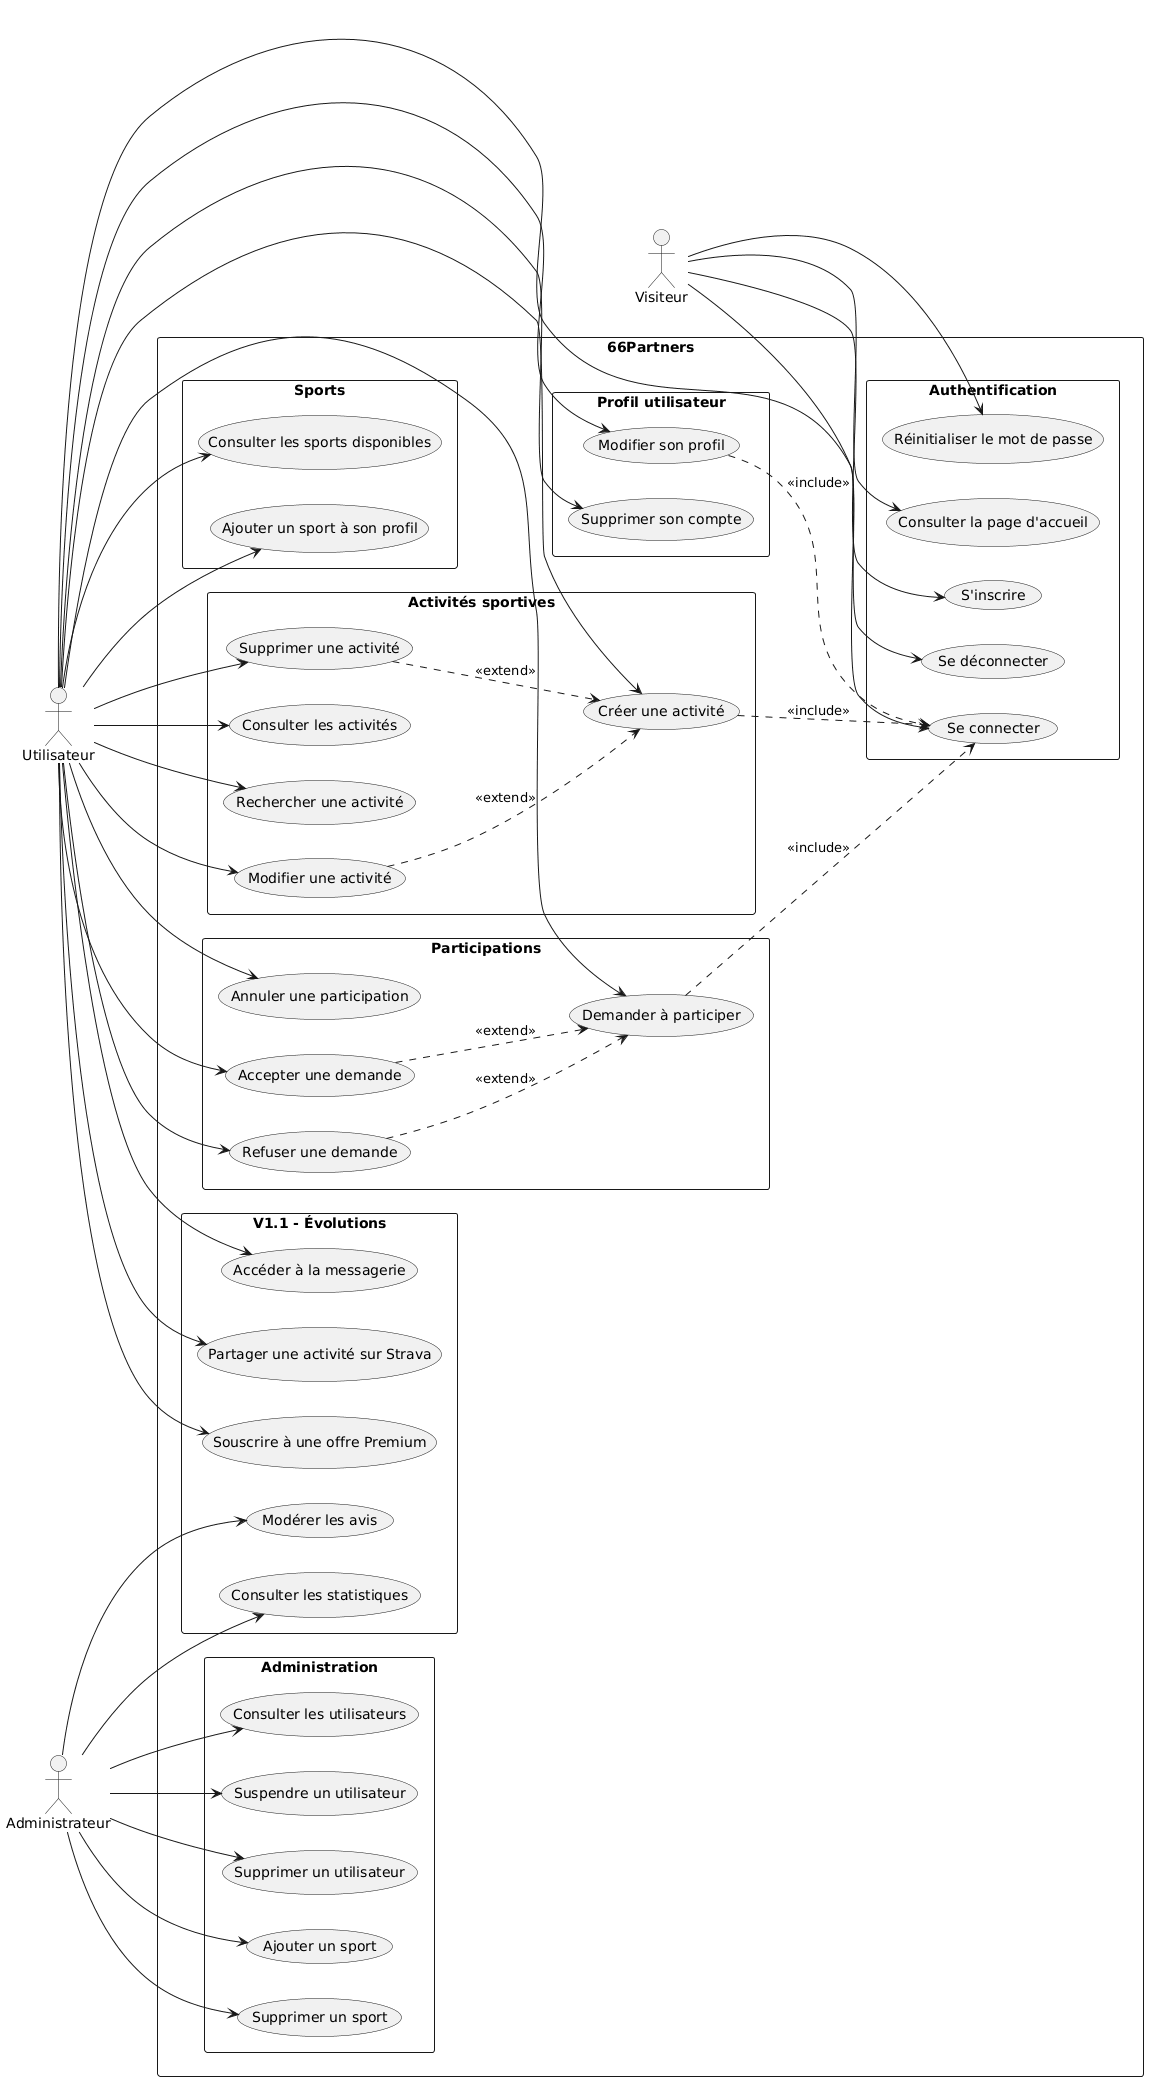
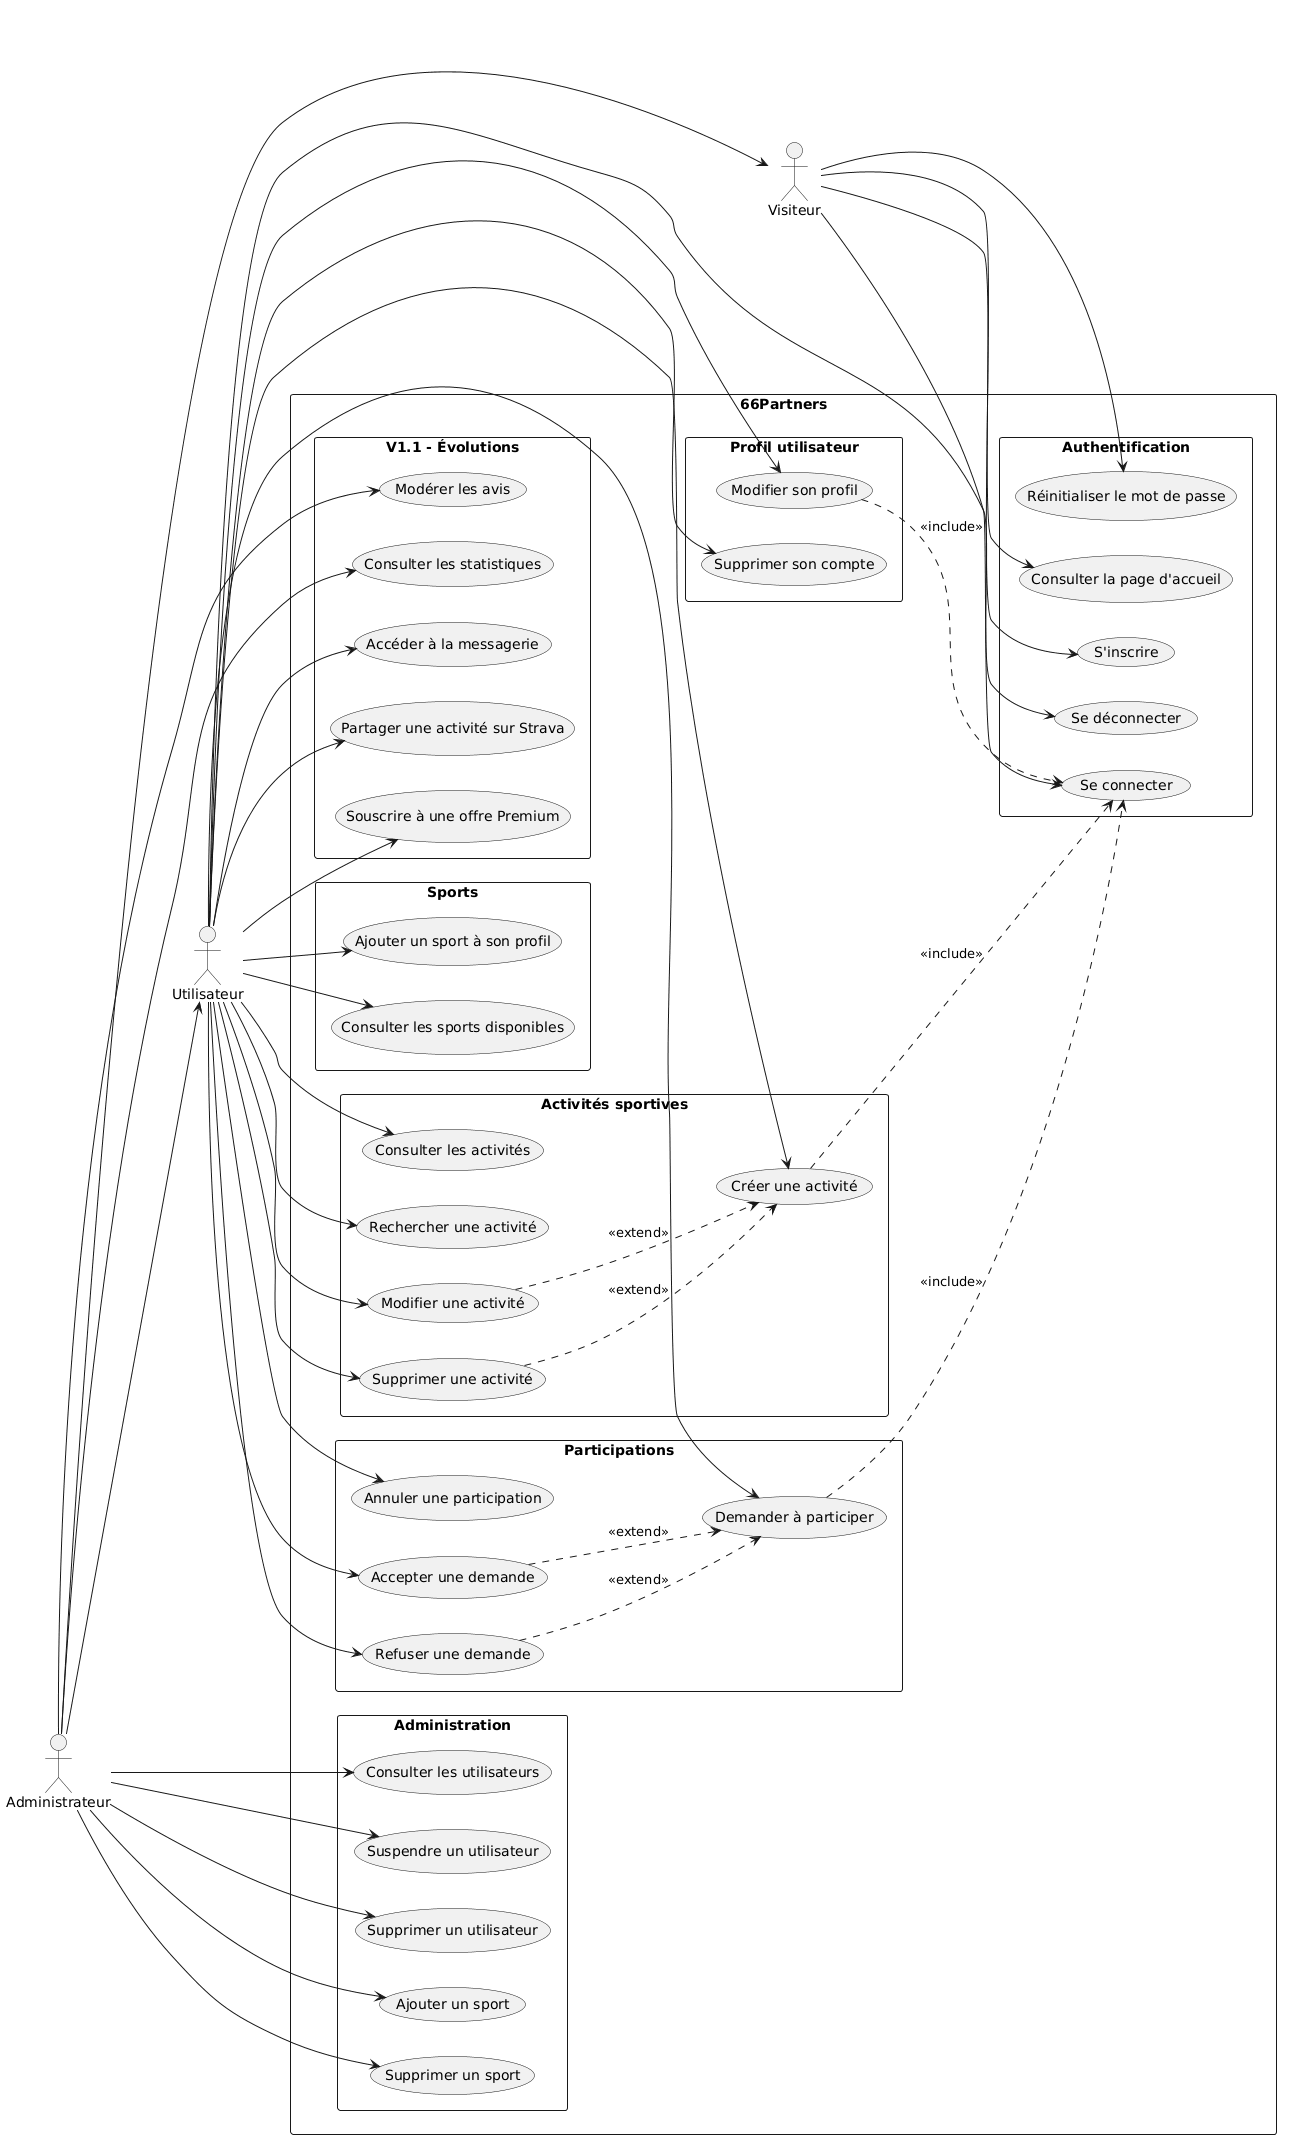
fix: ajout fichier connexion laptop

diff --git a/Conception/UML/Diagrammes/UseCase/UseCase.md b/Conception/UML/Diagrammes/UseCase/UseCase.md
@@ -78,6 +78,8 @@ User --> UC_CancelParticipation
 User --> UC_AcceptParticipation
 User --> UC_RefuseParticipation
 
+Admin --> Visitor
+Admin --> User 
 Admin --> UC_ViewUsers
 Admin --> UC_SuspendUser
 Admin --> UC_AdminDeleteUser
